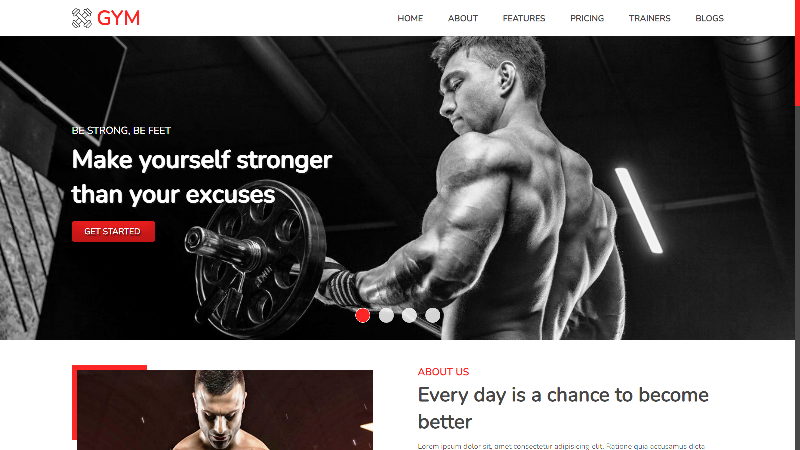
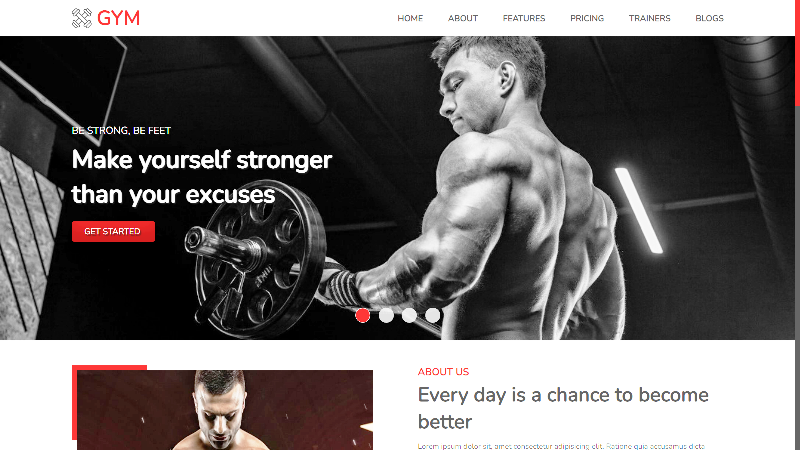
#459jk changed

diff --git a/src/components/about/data.js b/src/components/about/data.js
@@ -1,6 +1,8 @@
 import nextId from "react-id-generator";
 import javascript from "../../images/javascript-icon.svg"
 import react from "../../images/react-icon.svg"
+import node from "../../images/nodejs-icon.svg"
+import mongo from "../../images/mongodb-icon.svg"
 import html from "../../images/html-icon.svg"
 import css from "../../images/css-icon.svg"
 import sass from "../../images/sass-icon.svg"
@@ -32,6 +34,16 @@ export const skills = [
         id: nextId(),
         experience: tickbox,
         skill: react
+    },
+    {
+        id: nextId(),
+        experience: tickbox,
+        skill: node
+    },
+    {
+        id: nextId(),
+        experience: tickbox,
+        skill: mongo
     },
     {
         id: nextId(),

diff --git a/src/components/home/_home.scss b/src/components/home/_home.scss
@@ -60,11 +60,12 @@
             box-shadow: $box-shadow-1;
 
             @include mixins.breakpoint-up(medium){
-                width: 17rem;
+                width: 20rem;
             }
 
             @include mixins.breakpoint-up(large){
                 top: 16%;
+                right: 10%;
             }
         }
     }

diff --git a/src/components/about/_about.scss b/src/components/about/_about.scss
@@ -33,6 +33,11 @@
 
     .about__resume {
         margin-bottom: $mb-1;
+        height: 100%;
+
+        @include mixins.breakpoint-up(medium) {
+            margin-bottom: 0;
+        }
 
         &-item {
             position: relative;

diff --git a/src/components/home/Home.jsx b/src/components/home/Home.jsx
@@ -1,5 +1,5 @@
 import React from "react";
-import portfolioImg from "../../images/portfolio-1.jpg"
+import portfolioImg from "../../images/user-portfolio.jpg"
 import { socials } from "./data";
 
 const Home = () => {
